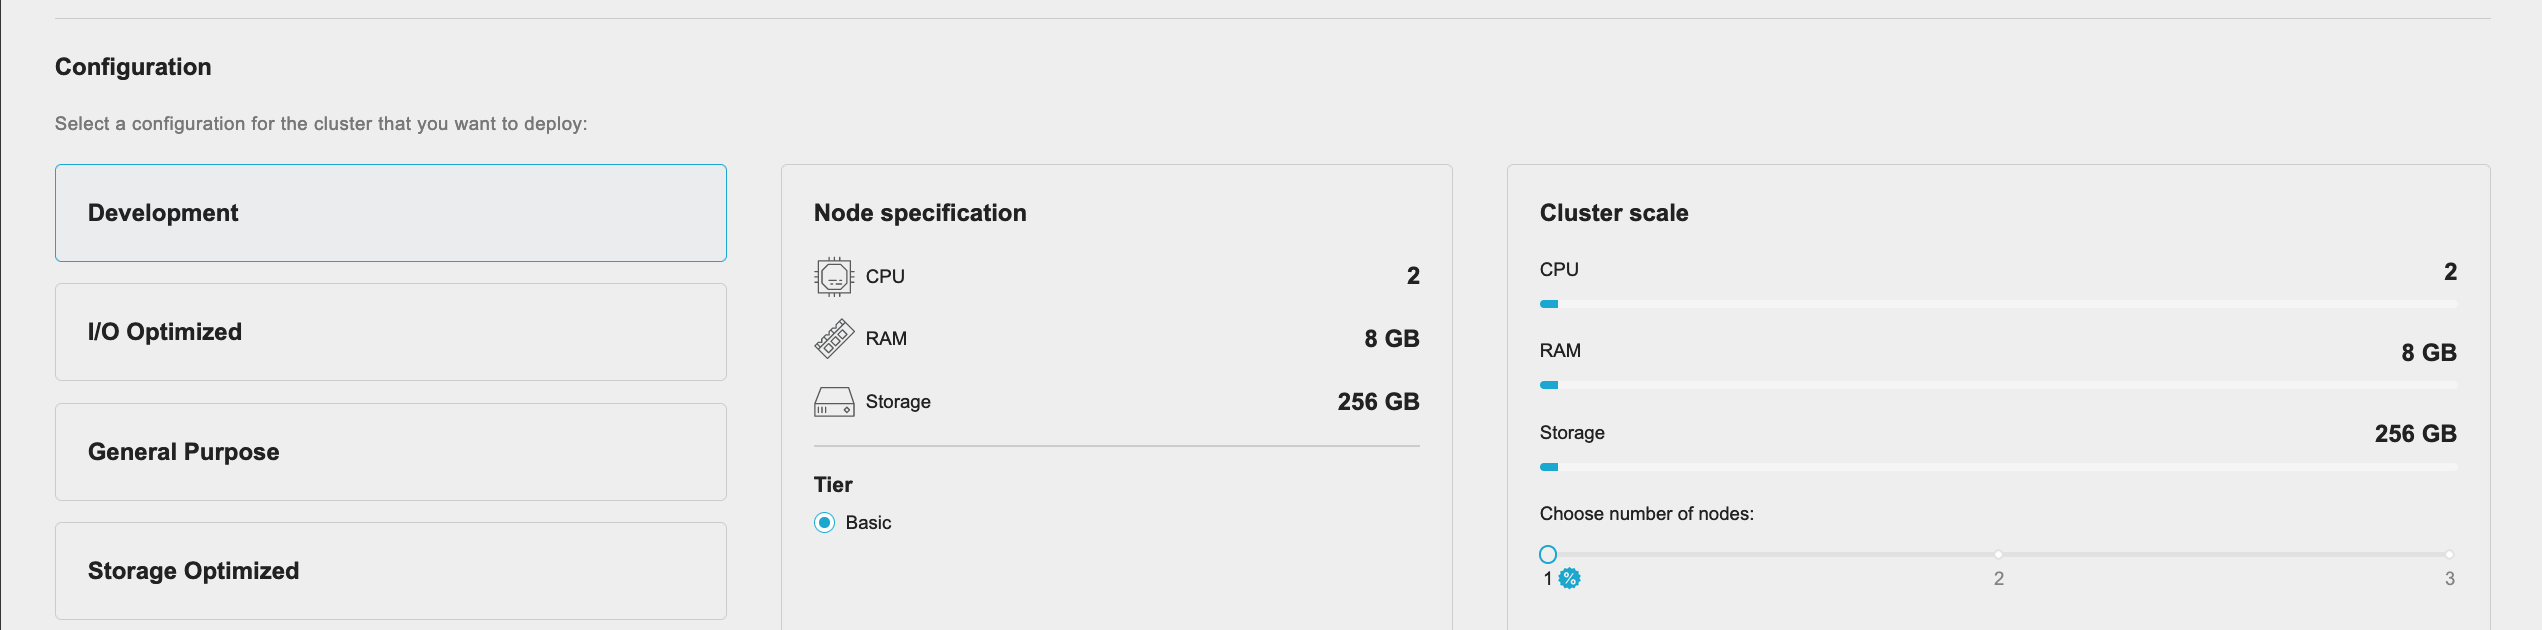
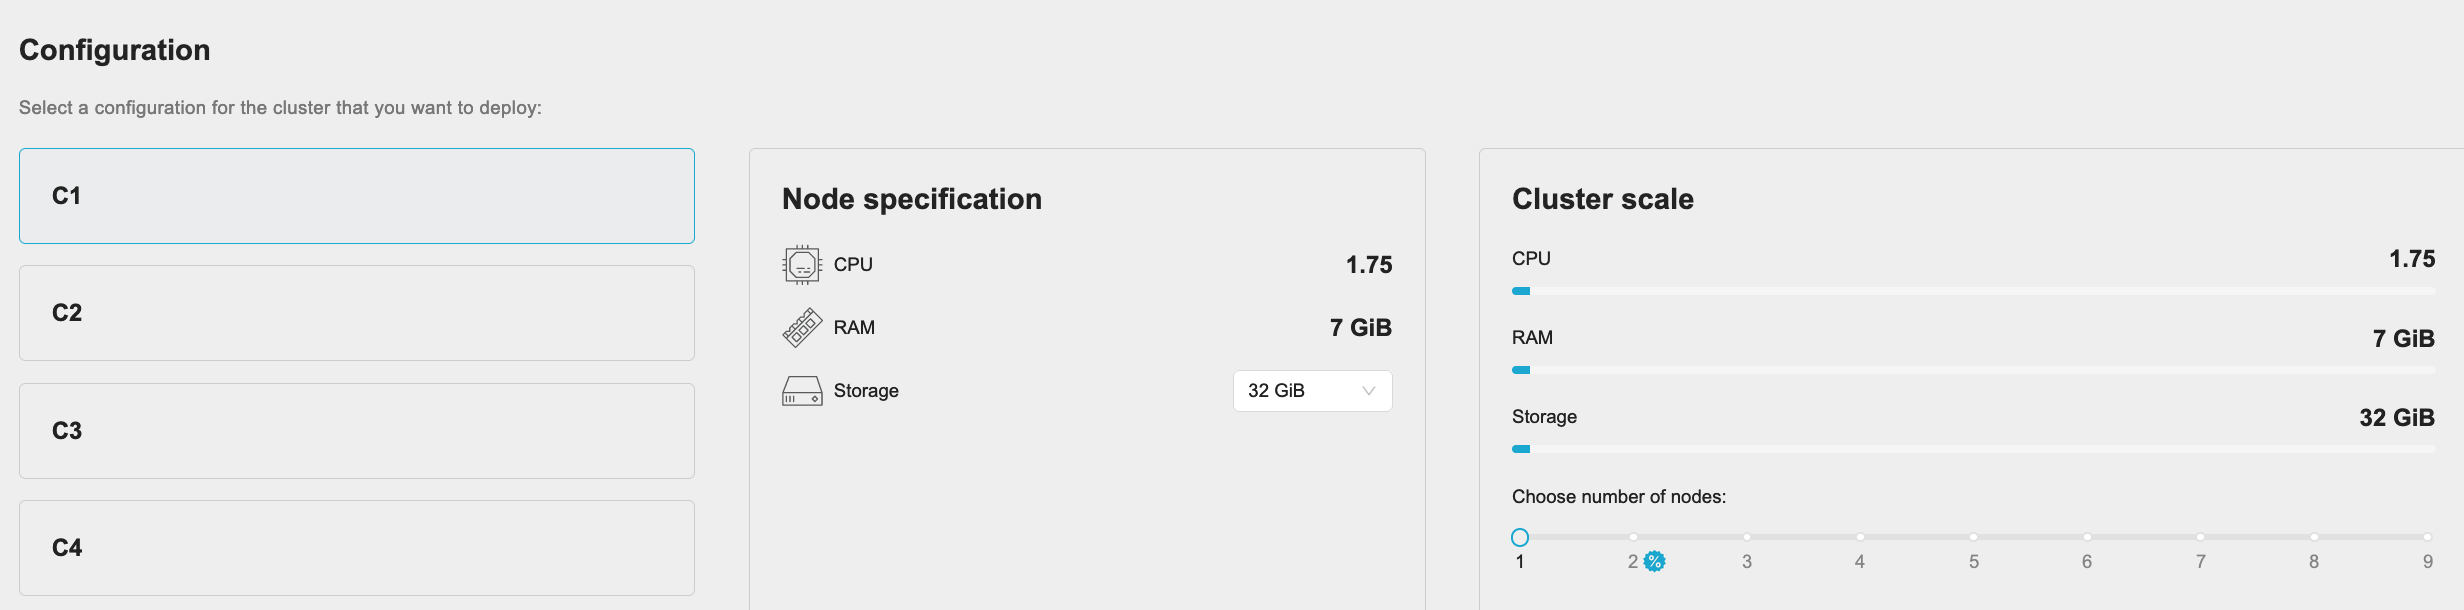
Reflect custom storage configuration in config tutorials

diff --git a/docs/promo.rst b/docs/promo.rst
@@ -6,11 +6,10 @@ Free trials and promotions
 
 Crate.io regularly offers promotions, consisting of either free or discounted
 offers on CrateDB Cloud database-as-a-service products. Promotions can involve
-discounts of up to 100% on three dimensions of the product: on specific
-`subscription plans`_, on tiers of the subscription plans (essentially
-multipliers for the specified hardware per node), and/or on `scale units`_ (the
-number of nodes selected). Promotions may last indefinitely or for limited
-periods of time.
+discounts of up to 100% on any dimensions of the product: for example, there
+can be promotions on specific `subscription plans`_ or on `scale units`_ (the
+number of nodes in a cluster) within a plan. Promotions may last indefinitely
+or for limited periods of time.
 
 In this guide, we explain step by step how to make use of such promotions, as
 well as when payment information will be required. While we hope the process is
@@ -21,7 +20,7 @@ the default :ref:`cluster deployment tutorial <cluster-deployment>` and
 choosing the Development plan, which is designed for just this purpose.
 
 .. NOTE::
-    Free and discounted promos are currently not supported for subscription
+    Free and discount promos are currently not supported for subscription
     plans offered through the SaaS marketplaces (`AWS`_ and
     `Azure Marketplace`_).
 
@@ -113,40 +112,35 @@ First, select a `region`_. Your cluster will be deployed in this region.
    :alt: Region selection
 
 .. NOTE::
-    Currently, your choice of region does not affect the price of the cluster.
-    This may change in future versions of CrateDB Cloud.
+    Your choice of region may affect the price of the cluster. Refer to the
+    price total indicated at the bottom right of the screen.
 
 
 Configuration
 '''''''''''''
 
 Next, go through the cluster configuration process. On the left-hand side, you
-can choose a subscription plan. As you select each subscription plan, you will
-see that the values for CPU, RAM, and storage per node change accordingly in
-the middle panel that shows the node specification.
-
-For most subscription plans, the node specification also allows a further
-choice of tier: Basic, Pro, or Premium. Each higher tier doubles the values per
-node of the previous tier.
+can choose a subscription plan. You can also select the storage capacity you
+want the cluster to have by means of the dropdown menu in the middle panel.
+As you select each subscription plan and configure your storage capacity, you
+will see that the values for CPU, RAM, and storage per node change accordingly.
 
 Finally, on the right the cluster scale overview shows the total values for the
-cluster. This is simply the number of nodes multiplied by the values of the
-subscription plan and tier. The cluster scale panel also allows you to increase
-the number of nodes you want in your cluster.
+cluster. The cluster scale panel also allows you to increase the number of
+nodes you want in your cluster.
 
 .. image:: _assets/img/free-trial-config.png
    :alt: Cluster configuration panels
 
 To sum up: the configuration of the cluster depends on the hardware values per
 node and the number of nodes in the cluster. The hardware values per node are
-determined by the choice of subscription plan and the choice of tier within the
-subscription plan. The number of nodes in the cluster is set in the cluster
-scale panel.
+determined by the choice of subscription plan and the storage capacity is
+determined by your choice of storage. The number of nodes depends on the scale
+unit chosen with the slider.
 
-Each of these choices will affect the price of the cluster, and it is possible
-for a subscription plan, a tier, or a number of nodes to be subject to a free
-or discounting promotion. You can always find the total price per hour and per
-month in the blue bar at the bottom of the screen.
+Each of these choices will affect the price of the cluster. You can always find
+the total price per hour and per month in the blue bar at the bottom of the
+screen.
 
 .. image:: _assets/img/free-trial-price.png
    :alt: Total price information bar
@@ -201,7 +195,7 @@ progress and showing you once again your database username and password. Since
 this is the last time you will be shown the cluster access credentials, you
 may want to copy them into a safe location (e.g. a password manager). Beyond
 the popup, you will see the Cluster Overview screen in the CrateDB Cloud
-Console. The section *Status* on the left-hand side will show you that the
+Console. The section 'Status' on the left-hand side will show you that the
 cluster is being set up. Once it is done, this will show *Available* and you
 will be able to see cluster metrics.
 
@@ -209,9 +203,9 @@ will be able to see cluster metrics.
 Free promotional cluster
 ------------------------
 
-Just as clusters may be discounted based on subscription plan, tier, or number
-of nodes, so clusters may be offered free based on any of these dimensions. As
-with discounts, the free offer may last indefinitely or for a limited amount
+Just as clusters may be discounted based on different aspects of the product,
+so clusters may be offered free based on any of these dimensions. As with
+discounts, the free offer may last indefinitely or for a limited amount
 of time.
 
 In the case of a free cluster, the process is essentially the same as described

diff --git a/docs/cluster-deployment/stripe.rst b/docs/cluster-deployment/stripe.rst
@@ -43,53 +43,61 @@ First, select a `region`_. Your cluster will be deployed in this region.
    :alt: Region selection
 
 .. NOTE::
-    Currently, your choice of region does not affect the price of the cluster.
-    This may change in future versions of CrateDB Cloud.
+    Your choice of region may affect the price of the cluster. Refer to the
+    price total indicated at the bottom right of the screen.
 
 
 Configure cluster
 -----------------
 
 Next, go through the cluster configuration process. On the left-hand side, you
-can choose a subscription plan. As you select each subscription plan, you will
-see that the values for CPU, RAM, and storage per node change accordingly in
-the middle panel that shows the node specification.
-
-For most subscription plans, the node specification also allows a further
-choice of tier: Basic, Pro, or Premium. Each higher tier doubles the values per
-node of the previous tier.
-
-Finally, on the right the cluster scale overview shows the total values for the
-cluster. This is simply the number of nodes multiplied by the values of the
-subscription plan and tier. The cluster scale panel also allows you to increase
-the number of nodes you want in your cluster.
+can choose a `subscription plan`_. As you select each subscription plan, you
+will see that the values for CPU, RAM, and (minimum) storage per node change
+accordingly in the middle panel that shows the node specification.
 
 .. image:: ../_assets/img/stripe-config.png
-   :alt: Cluster configuration panels
+   :alt: Cluster configuration
+
+Each subscription plan comes with a preconfigured compute value per node. The
+compute capacity of your cluster can be scaled horizontally by adding nodes. To
+do this, use the slider under the 'Cluster scale' panel. This overview shows
+the current CPU and RAM values of your cluster, which is simply the compute
+values of the plan you have chosen multiplied by the number of nodes.
+
+CrateDB Cloud separates storage configuration from compute configuration. You
+can separately configure the desired storage for your cluster by using the
+dropdown menu under 'Storage' in the 'Node specification' panel. The range of
+eligible storage sizes varies by subscription plan. The storage you have chosen
+for your cluster is also reflected in the cluster overview in the right-hand
+panel.
+
+.. NOTE::
+    The storage capacity of a cluster cannot currently be changed in the
+    CrateDB Cloud Console once it has been deployed.
 
 To sum up: the configuration of the cluster depends on the hardware values per
-node and the number of nodes in the cluster. The hardware values per node are
-determined by the choice of subscription plan and the choice of tier within the
-subscription plan. The number of nodes in the cluster is set in the cluster
-scale panel.
+node, the storage selected, and the number of nodes in the cluster. The
+hardware values per node are determined by the choice of subscription plan. The
+storage capacity is set in the dropdown menu. The number of nodes in the
+cluster can be configured by using the slider on the right.
 
-Each of these choices will affect the price of the cluster, and it is possible
-for a subscription plan, a tier, or a number of nodes to be subject to a free
-or discounting promotion. You can always find the total price per hour and per
-month in the blue bar at the bottom of the screen.
+Each of these choices will affect the price of the cluster. It is also possible
+that a subscription plan or a number of nodes is eligible for a promotion,
+making it either discounted or free. You can always find the total price per
+hour and per month in the blue bar at the bottom of the screen.
 
 .. image:: ../_assets/img/stripe-price.png
    :alt: Total price information bar
    :scale: 50%
 
-.. HINT::
+.. TIP::
     To identify a promotional offer where a discount is available, look for the
     % icon under the cluster scale panel. For more information about
     promotions, see :ref:`our documentation on promoted clusters <promo>`.
 
-.. image:: ../_assets/img/stripe-icon.png
-   :alt: Promotional icon
-   :scale: 50%
+    .. image:: ../_assets/img/stripe-icon.png
+       :alt: Promotional icon
+       :scale: 50%
 
 
 Set up your account
@@ -165,3 +173,4 @@ Thank you for choosing CrateDB Cloud!
 .. _region: https://crate.io/docs/cloud/reference/en/latest/glossary.html#region
 .. _scaling guide: https://crate.io/docs/cloud/howtos/en/latest/scale-cluster.html
 .. _Stripe: https://stripe.com
+.. _subscription plan: https://crate.io/docs/cloud/reference/en/latest/subscription-plans.html
